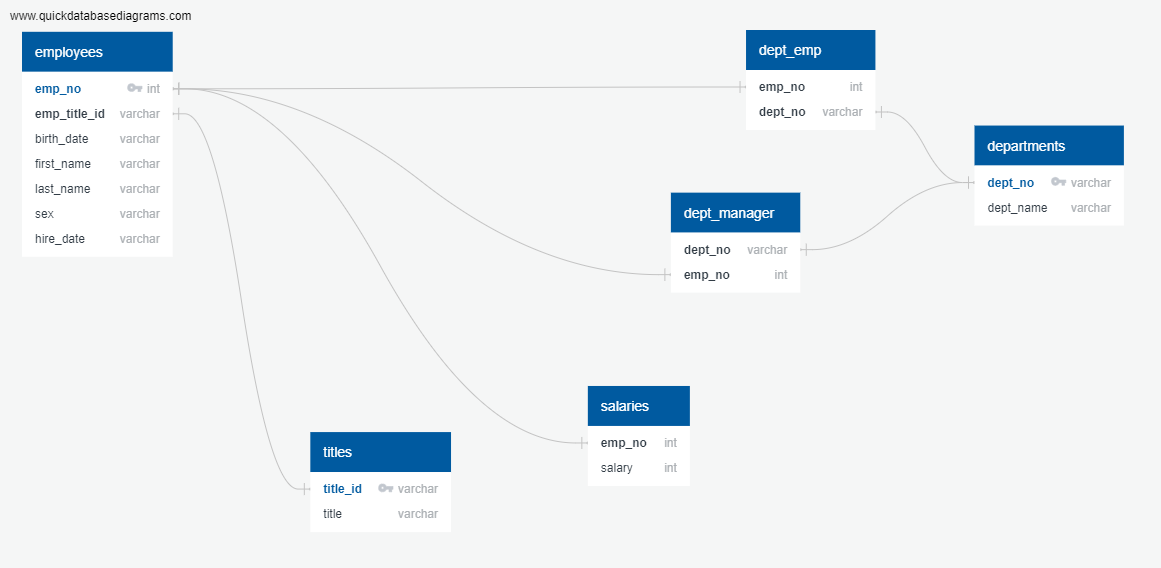
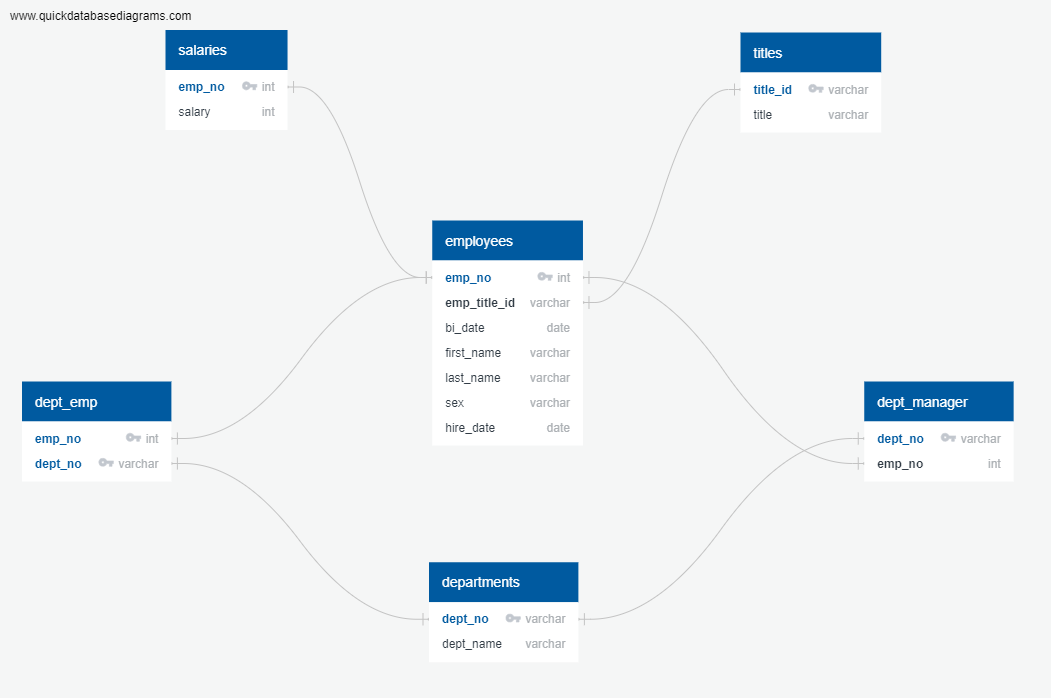
Update

diff --git a/README.md b/README.md
@@ -1,1 +1,74 @@
-# sql-challenge
+# University of Denver Data Analytics Boot Camp: SQL Homework - Employee Database: A Mystery in Two Parts
+# 
+
+![sql.png](sql.png)
+
+
+## Background
+
+It is a beautiful spring day, and it is two weeks since you have been hired as a new data engineer at Pewlett Hackard. Your first major task is a research project on employees of the corporation from the 1980s and 1990s. All that remain of the database of employees from that period are six CSV files.
+
+In this assignment, you will design the tables to hold data in the CSVs, import the CSVs into a SQL database, and answer questions about the data. In other words, you will perform:
+
+1. Data Engineering
+
+3. Data Analysis
+
+## Instructions
+
+#### Data Modeling
+
+Inspect the CSVs and sketch out an ERD of the tables. Feel free to use a tool like [http://www.quickdatabasediagrams.com](http://www.quickdatabasediagrams.com).
+
+
+ ![sql.png](EmployeeSQL/SQL_ERD.png)
+
+
+
+### Data Engineering
+
+* Use the information you have to create a table schema for each of the six CSV files. Remember to specify data types, primary keys, foreign keys, and other constraints.
+
+  * For the primary keys check to see if the column is unique, otherwise create a [composite key](https://en.wikipedia.org/wiki/Compound_key). Which takes to primary keys in order to uniquely identify a row.
+  * Be sure to create tables in the correct order to handle foreign keys.
+
+* Import each CSV file into the corresponding SQL table. **Note** be sure to import the data in the same order that the tables were created and account for the headers when importing to avoid errors.
+* Files can
+
+### Data Analysis
+
+Once you have a complete database, do the following:
+
+1. List the following details of each employee: employee number, last name, first name, sex, and salary.
+
+2. List first name, last name, and hire date for employees who were hired in 1986.
+
+3. List the manager of each department with the following information: department number, department name, the manager's employee number, last name, first name.
+
+4. List the department of each employee with the following information: employee number, last name, first name, and department name.
+
+5. List first name, last name, and sex for employees whose first name is "Hercules" and last names begin with "B."
+
+6. List all employees in the Sales department, including their employee number, last name, first name, and department name.
+
+7. List all employees in the Sales and Development departments, including their employee number, last name, first name, and department name.
+
+8. In descending order, list the frequency count of employee last names, i.e., how many employees share each last name.
+
+### Bonus: Using Python to examine tables from SQL
+
+As you examine the data, you are overcome with a creeping suspicion that the dataset is fake. You surmise that your boss handed you spurious data in order to test the data engineering skills of a new employee. To confirm your hunch, you decide to take the following steps to generate a visualization of the data, with which you will confront your boss:
+
+* Create a histogram to visualize the most common salary ranges for employees.
+![sql.png](EmployeeSQL/images/Salary_Histogram.png)
+
+* Create a bar chart of average salary by title.
+![sql.png](EmployeeSQL/images/Average_Salary_by_Title.png)
+
+
+
+## Epilogue
+
+Evidence in hand, you march into your boss's office and present the visualization. With a sly grin, your boss thanks you for your work. On your way out of the office, you hear the words, "Search your ID number." You look down at your badge to see that your employee ID number is 499942.
+![sql.png](EmployeeSQL/images/Employee_499942.png)
+
